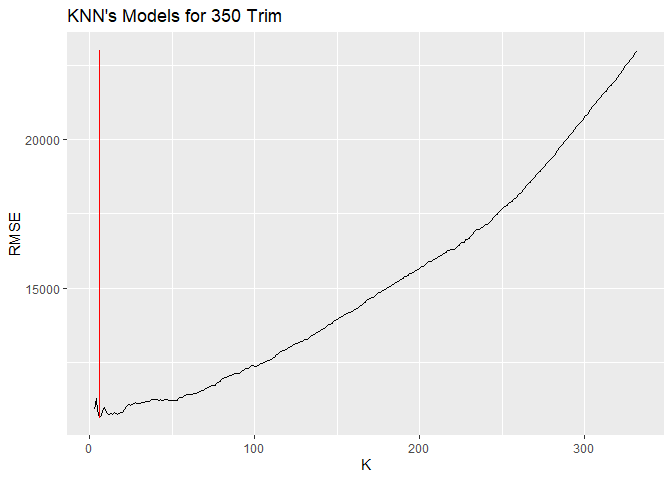
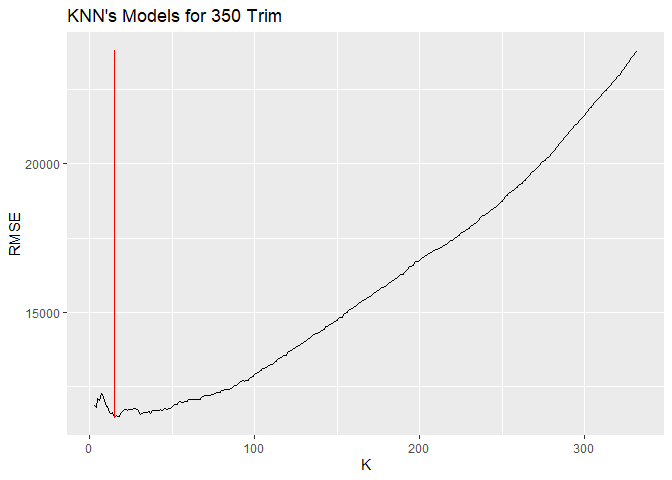
3rd

diff --git a/Assignment-1.md b/Assignment-1.md
@@ -115,13 +115,13 @@ mileage.
 
 The figure 2.2. shows the series of RMSE at every value of K, the red
 line indicate the k which generate the minimum RMSE. In this case the k
-value is 6. However this value will change any time we generate a new
+value is 15. However this value will change any time we generate a new
 random sample, to decide the best k we repeated the process ten times
 and then we took the average of the minium k.
 
 ### Figure 2.3.
 
-    ## [1] 10647.09
+    ## [1] 11486.15
 
 ![](Assignment-1_files/figure-markdown_github/unnamed-chunk-13-1.png)
 
@@ -145,7 +145,7 @@ for the S65 AMG class.
 
 The figure 2.5. shows the series of RMSE at every value of K, the red
 line indicate the k which generate the minimum RMSE. In this case the k
-value which minimize the RMSE for S65 AMG trim is 36. However this value
+value which minimize the RMSE for S65 AMG trim is 18. However this value
 will change any time we generate a new random sample, to decide the best
 k we repeated the process ten times and then we took the average of the
 minium k.
